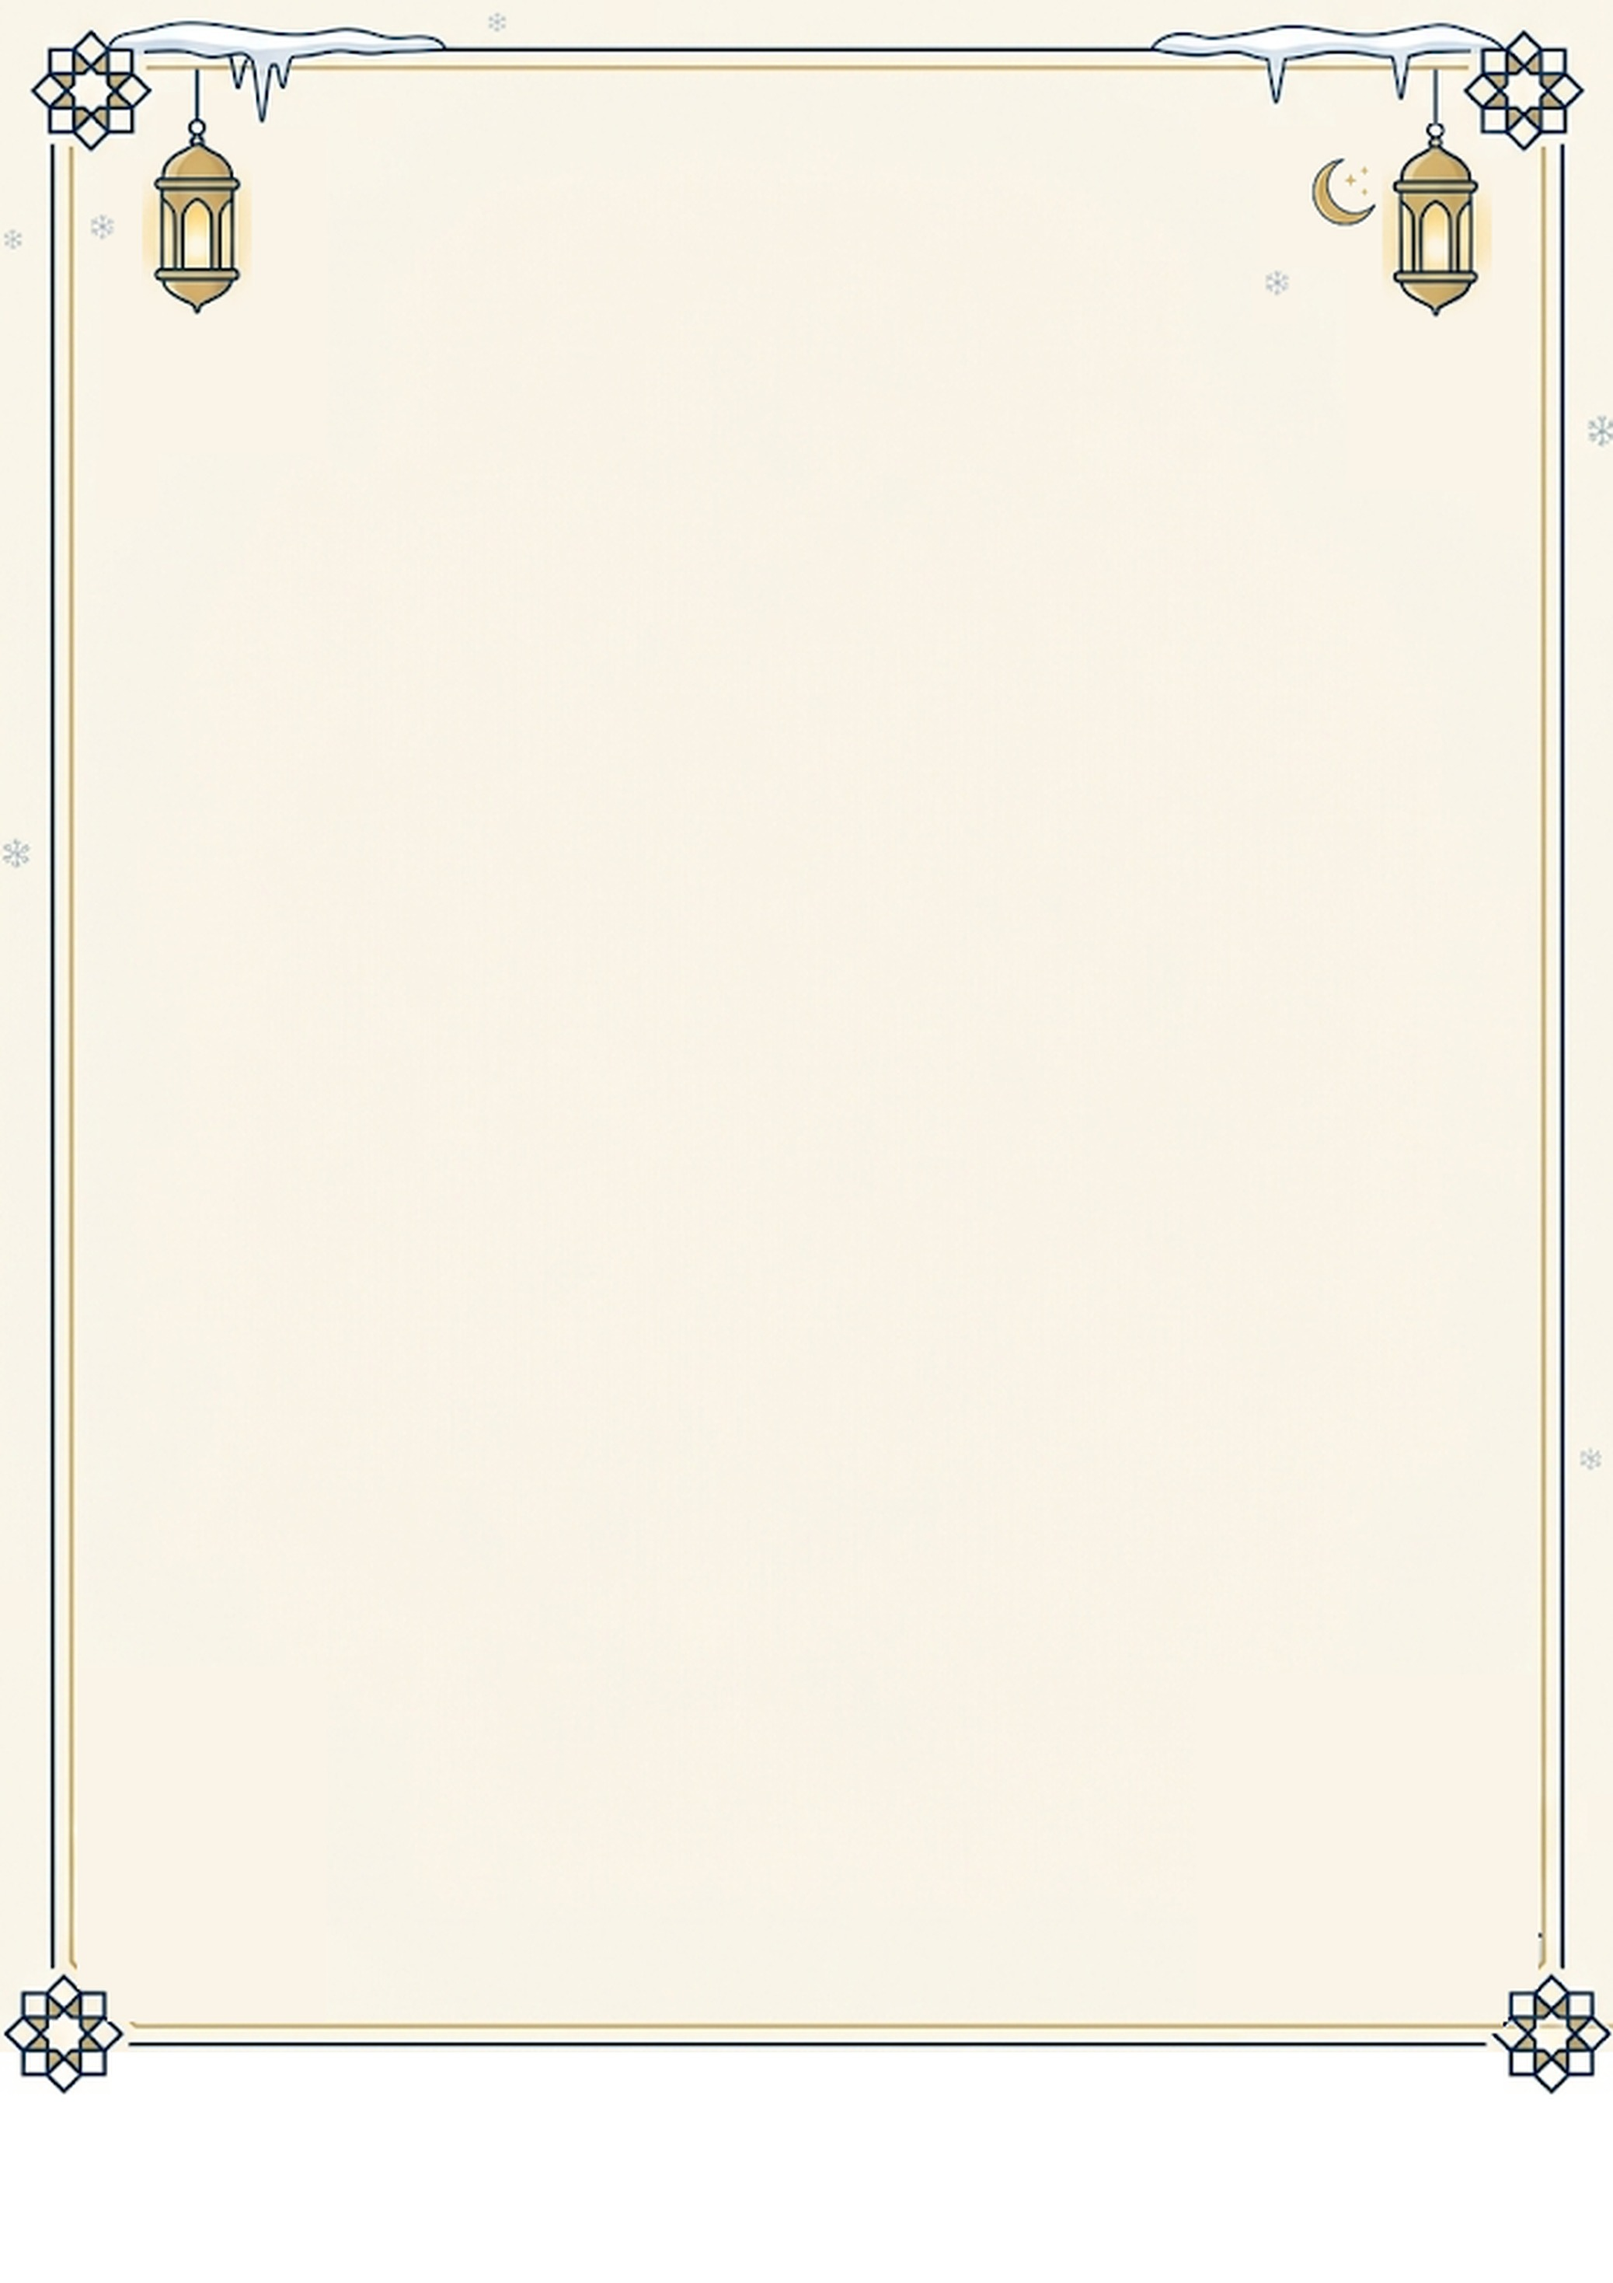
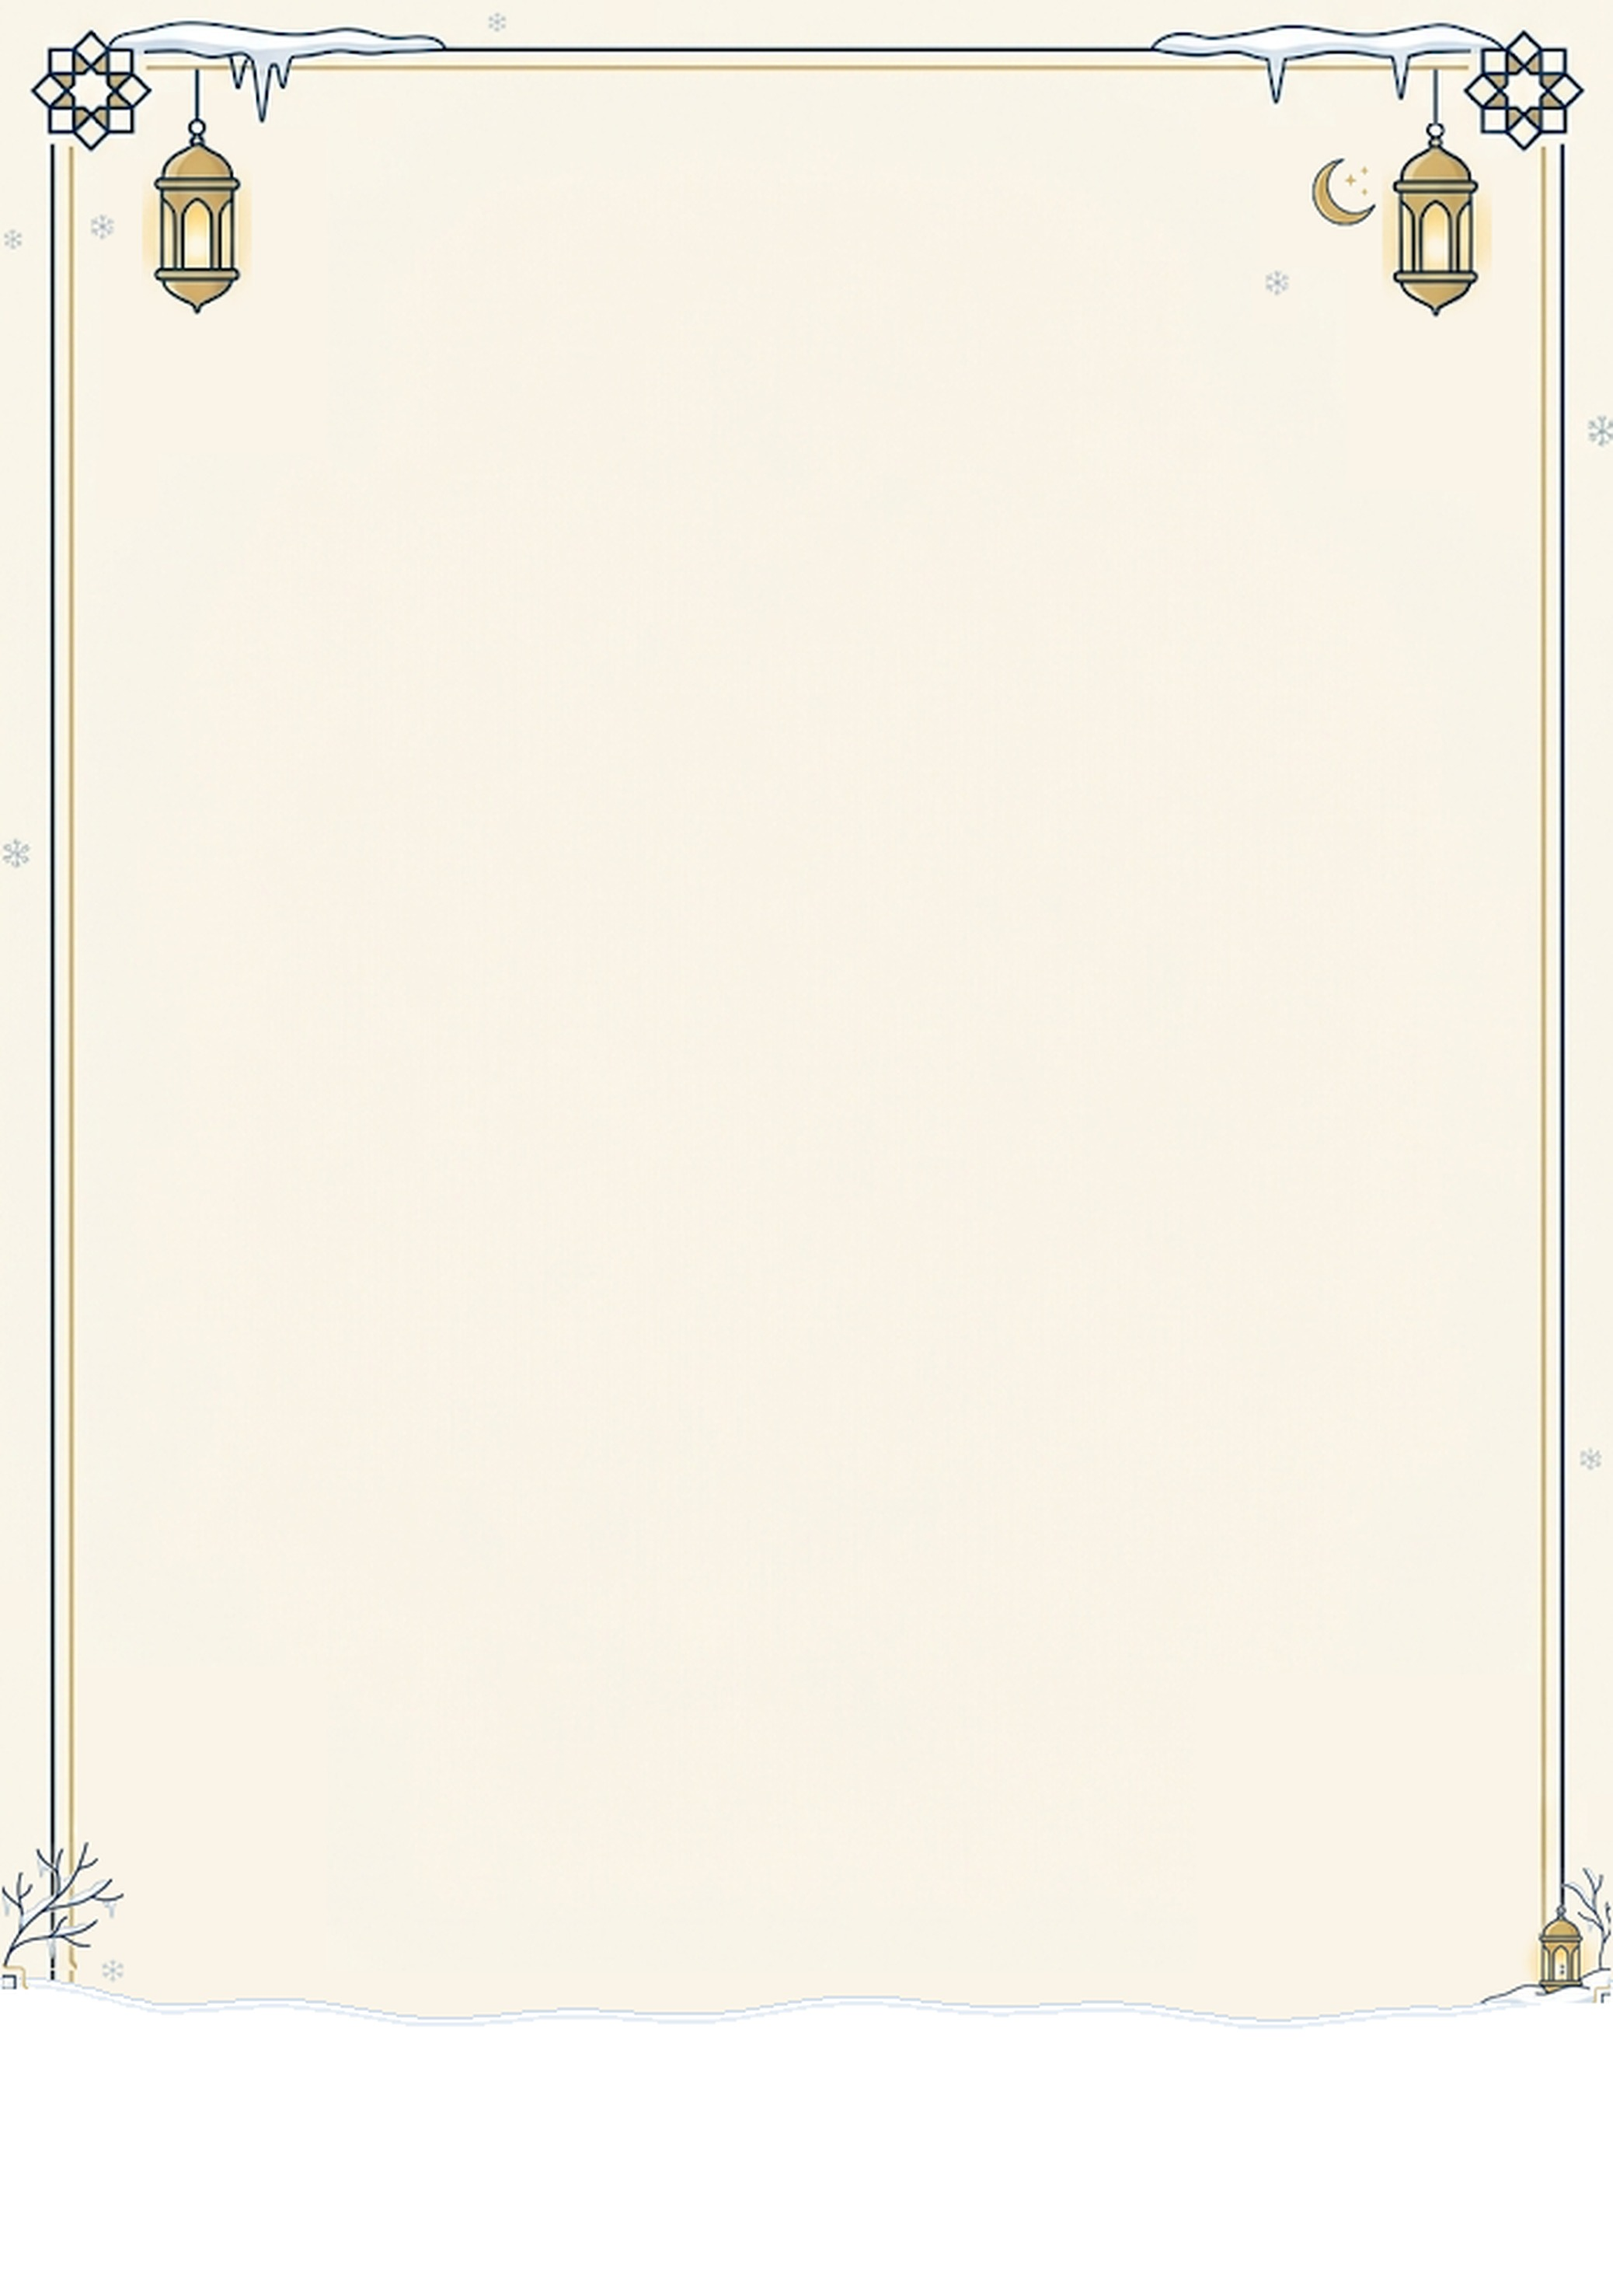
style: feuille Ramadan, décor terminé par un sol enneigé fondu dans le bandeau blanc (arbre nu et lanterne dans les angles)

Changed region(s): [[0.0, 0.8056, 1.0, 0.9295]]

diff --git a/css/ramadan.css b/css/ramadan.css
@@ -70,9 +70,9 @@ body {
     grid-template-rows: 41mm 1fr auto;
     grid-template-columns: minmax(0, 1fr); /* le contenu ne peut pas élargir la page */
     position: relative;
-    /* fond d'hiver pleine page (cadre, lanternes, croissant, neige), bandeau blanc de 3 cm compris ;
+    /* fond d'hiver pleine page (cadre, lanternes, croissant, sol enneigé qui se fond dans le bandeau blanc) ;
        version papier : voile blanc pour économiser l'encre */
-    --footer-h: 30mm;
+    --footer-h: 30mm; /* bandeau blanc de l'identité, sous le sol enneigé */
     --bg-veil: rgb(255 255 255 / 0.45);
     background:
         linear-gradient(var(--bg-veil), var(--bg-veil)),
@@ -493,7 +493,7 @@ sup.ordinal {
 /* --- PIED DE PAGE : invocation d'acceptation --- */
 .ramadan-footer {
     display: grid;
-    /* invocation sous le tableau | bas du cadre de l'image | bandeau blanc de 3 cm : identité (logo de 2 cm) */
+    /* invocation sous le tableau | sol enneigé | bandeau blanc : identité (logo de 2 cm) */
     grid-template-rows: 9mm 4.5mm var(--footer-h);
     align-items: center;
     padding: 0 15mm;
